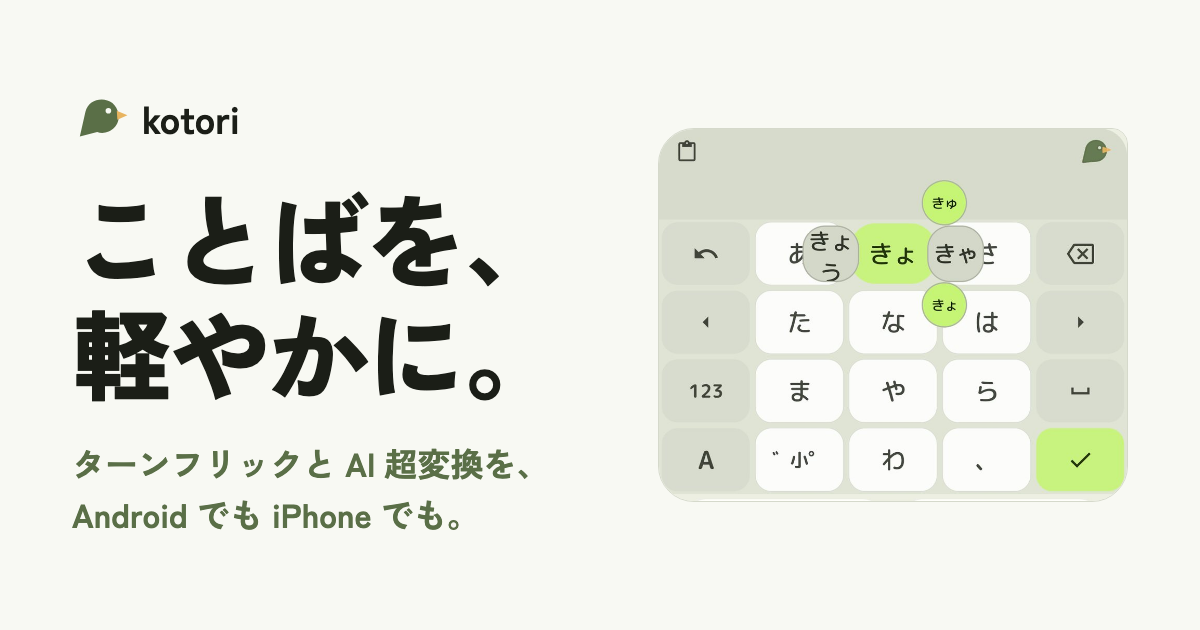
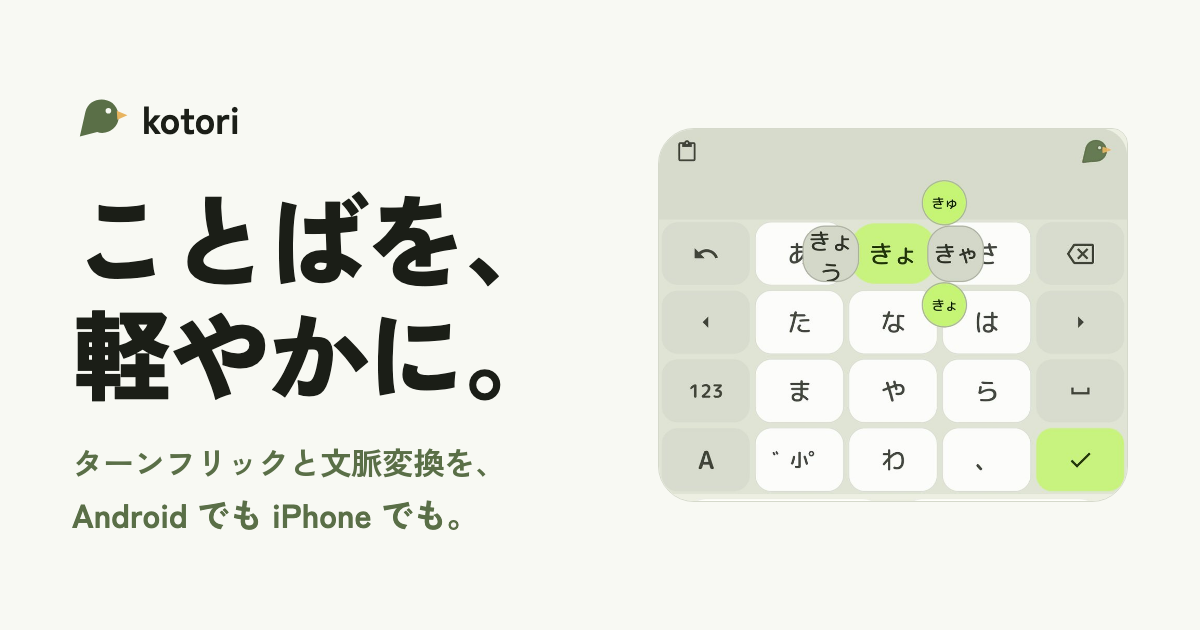
:pencil2: 「AI 超変換」を「文脈変換」に改める
端末内のモデルで候補を選び直す機能の名前を変えた（「超変換」を含む他社の登録商標に近いため）。
共有されたときの画像（og.png）も、その行を描き直した。

Changed region(s): [[0.0617, 0.6937, 0.4317, 0.7841]]

diff --git a/index.html b/index.html
@@ -3,10 +3,10 @@
 <head>
 <meta charset="utf-8">
 <meta name="viewport" content="width=device-width, initial-scale=1">
-<title>Kotori日本語入力 | ターンフリックと AI 超変換の日本語キーボード</title>
-<meta name="description" content="Kotori は、ターンフリックと AI 超変換をどちらも備えた日本語キーボードです。指を曲げれば濁音も拗音もひと筆で打て、変換は文を読んで字を選び直します。Android と iPhone の両方で使え、打ったことばは外へ送りません。">
+<title>Kotori日本語入力 | ターンフリックと文脈変換の日本語キーボード</title>
+<meta name="description" content="Kotori は、ターンフリックと文脈変換をどちらも備えた日本語キーボードです。指を曲げれば濁音も拗音もひと筆で打て、変換は文を読んで字を選び直します。Android と iPhone の両方で使え、打ったことばは外へ送りません。">
 <meta property="og:title" content="Kotori日本語入力">
-<meta property="og:description" content="ターンフリックと AI 超変換を、Android でも iPhone でも。">
+<meta property="og:description" content="ターンフリックと文脈変換を、Android でも iPhone でも。">
 <meta property="og:type" content="website">
 <meta property="og:url" content="https://kotorime.github.io/kotori-website/">
 <meta property="og:site_name" content="Kotori日本語入力">
@@ -39,7 +39,7 @@
 	</a>
 	<nav aria-label="ページ内">
 		<a href="#flick">ターンフリック</a>
-		<a href="#ai">AI 超変換</a>
+		<a href="#ai">文脈変換</a>
 		<a href="#privacy">プライバシー</a>
 		<a href="#get">ダウンロード</a>
 	</nav>
@@ -50,7 +50,7 @@
 <section class="hero">
 	<div class="hero-copy">
 		<h1>ことばを、<br>軽やかに。</h1>
-		<p class="claim"><span>ターンフリックと</span> <span>AI 超変換を、</span><br><span>Android でも</span> <span>iPhone でも。</span></p>
+		<p class="claim"><span>ターンフリックと</span> <span>文脈変換を、</span><br><span>Android でも</span> <span>iPhone でも。</span></p>
 		<p class="lead">指を曲げれば、濁音も拗音も、「きょう」までひと筆で打てます。変換は、文を読んで字を選び直します。どちらも端末の中で動き、打ったことばを外へ送りません。</p>
 		<p class="actions">
 			<a class="button" href="#get">ダウンロード</a>
@@ -64,7 +64,7 @@
 			<img class="is-on" src="assets/turn-2.jpg" width="900" height="717" alt="左へすべらせて「き」を選んだところ。右側に「きゅ」「きゃ」「きょ」、左下に「ぎ」が出ている">
 			<img class="is-on" src="assets/turn-3.jpg" width="900" height="717" alt="右下へ戻して「きょ」を選んだところ。左に「きょう」が出ている">
 			<img class="is-on" src="assets/turn-4.jpg" width="900" height="717" alt="もう一度左へ戻して「きょう」を選んだところ。キーに「きょう」と表示されている">
-			<img class="is-on" src="assets/turn-5.jpg" width="900" height="717" alt="続けて「とにかえる」と打ったところ。候補の先頭に、AI 超変換の印が付いた「京都に帰る」があり、続いて「京都に変える」が並んでいる">
+			<img class="is-on" src="assets/turn-5.jpg" width="900" height="717" alt="続けて「とにかえる」と打ったところ。候補の先頭に、文脈変換の印が付いた「京都に帰る」があり、続いて「京都に変える」が並んでいる">
 			<span class="player-finger is-up" aria-hidden="true"></span>
 		</div>
 		<ol class="player-steps">
@@ -74,7 +74,7 @@
 			<li><button type="button" data-step="3"><b>きょう</b>左へ戻す</button></li>
 			<li><button type="button" data-step="4" aria-current="step"><b>京都に帰る</b>続きを打つと</button></li>
 		</ol>
-		<figcaption id="player-caption">Android 版の実際の画面です。「きょう」をひと筆で打ち、続けて「とにかえる」と打つと、AI 超変換が「京都に帰る」を選びます。辞書だけの変換では「京都に変える」が先に出ます。</figcaption>
+		<figcaption id="player-caption">Android 版の実際の画面です。「きょう」をひと筆で打ち、続けて「とにかえる」と打つと、文脈変換が「京都に帰る」を選びます。辞書だけの変換では「京都に変える」が先に出ます。</figcaption>
 	</figure>
 </section>
 
@@ -115,14 +115,14 @@
 
 <section class="feature feature-flip" id="ai">
 	<div class="feature-text">
-		<p class="eyebrow">AI 超変換</p>
+		<p class="eyebrow">文脈変換</p>
 		<h2><span>文を読んで、</span><span>字を選び直す。</span></h2>
 		<p>辞書だけの変換は、となり合うことばのつながりやすさで字を選びます。そのため「くすりがきく」は、よく使われる「聞く」が先に出ます。</p>
-		<p>AI 超変換は、文をまるごと読める小さな言語モデルで、候補を選び直します。薬なら「効く」、本なら「厚い」。同じ読みの字を、文に合わせて選びます。</p>
+		<p>文脈変換は、文をまるごと読める小さな言語モデルで、候補を選び直します。薬なら「効く」、本なら「厚い」。同じ読みの字を、文に合わせて選びます。</p>
 		<table class="cases">
-			<caption>辞書だけの変換と、AI 超変換のいちばん上の候補</caption>
+			<caption>辞書だけの変換と、文脈変換のいちばん上の候補</caption>
 			<thead>
-				<tr><th scope="col">辞書だけ</th><th scope="col">AI 超変換</th></tr>
+				<tr><th scope="col">辞書だけ</th><th scope="col">文脈変換</th></tr>
 			</thead>
 			<tbody>
 				<tr><td><del>暑い</del>本を読む</td><td><ins>厚い</ins>本を読む</td></tr>
@@ -140,14 +140,14 @@
 	</div>
 	<figure class="shot compare">
 		<div class="compare-row">
-			<p>AI 超変換オフ</p>
+			<p>文脈変換オフ</p>
 			<img src="assets/ai-off.jpg" width="900" height="173" loading="lazy" alt="「くすりがきく」の候補。先頭から「薬が聞く」「薬が聴く」「薬が効く」の順に並んでいる">
 		</div>
 		<div class="compare-row is-on">
-			<p>AI 超変換オン</p>
-			<img src="assets/ai-on.jpg" width="900" height="173" loading="lazy" alt="「くすりがきく」の候補。先頭に AI 超変換の印が付いた「薬が効く」があり、続いて「薬が聞く」「薬が聴く」が並んでいる">
+			<p>文脈変換オン</p>
+			<img src="assets/ai-on.jpg" width="900" height="173" loading="lazy" alt="「くすりがきく」の候補。先頭に文脈変換の印が付いた「薬が効く」があり、続いて「薬が聞く」「薬が聴く」が並んでいる">
 		</div>
-		<figcaption>「くすりがきく」と打ったときの、実際の候補です。印の付いた候補が、AI 超変換が選んだものです。</figcaption>
+		<figcaption>「くすりがきく」と打ったときの、実際の候補です。印の付いた候補が、文脈変換が選んだものです。</figcaption>
 	</figure>
 </section>
 
@@ -224,11 +224,11 @@
 	<div class="facts">
 		<div>
 			<h3>iOS 版</h3>
-			<p>TestFlight でテスト中です。iOS 17 以降の iPhone と iPad で動きます。ターンフリックも AI 超変換も使えます。</p>
+			<p>TestFlight でテスト中です。iOS 17 以降の iPhone と iPad で動きます。ターンフリックも文脈変換も使えます。</p>
 		</div>
 		<div>
 			<h3>Android 版</h3>
-			<p>公開の準備をしています。Android 12 以降で動きます。ターンフリックも AI 超変換も使えます。</p>
+			<p>公開の準備をしています。Android 12 以降で動きます。ターンフリックも文脈変換も使えます。</p>
 		</div>
 	</div>
 	<p class="plain-note">どちらも無料です。公開の前に試していただける方を募っています。<a href="mailto:support@yuuki14202028.com?subject=Kotori%20%E3%81%AE%E3%83%86%E3%82%B9%E3%83%88%E3%81%AB%E5%8F%82%E5%8A%A0%E3%81%97%E3%81%9F%E3%81%84">メール</a>で、お使いの OS を添えてお知らせください。そのほかのお問い合わせも <a href="mailto:support@yuuki14202028.com">support@yuuki14202028.com</a> まで。</p>

diff --git a/styles.css b/styles.css
@@ -222,7 +222,7 @@ h2 span { display: inline-block; }
 	background: var(--surface);
 }
 
-/* AI 超変換。辞書だけの結果と並べる */
+/* 文脈変換。辞書だけの結果と並べる */
 .cases { width: 100%; margin-top: 1.75rem; border-collapse: collapse; font-size: var(--step--1); line-height: 1.6; }
 .cases caption { position: absolute; width: 1px; height: 1px; overflow: hidden; clip-path: inset(50%); white-space: nowrap; }
 .cases th { padding: 0 0 0.5rem; font-weight: 500; text-align: left; color: var(--ink-soft); }

diff --git a/README.md b/README.md
@@ -14,7 +14,7 @@ python3 -m http.server 8765   # http://localhost:8765/
 |---|---|
 | `index.html` | ページ本体。文面はここに直接書いてある。冒頭の図は、実際の画面（`assets/turn-1.jpg`〜`turn-5.jpg`）を段階ごとに送るもので、指の位置と送る間隔は末尾のスクリプトにある |
 | `styles.css` | 色・文字・レイアウト。色と形はアプリ（Android 版の `ui/Theme.kt`、`ui/Expressive.kt`）に合わせてある |
-| `assets/` | 小鳥のアイコンと、Android 版の実際の画面（下の「画面を撮り直すとき」）。`og.png` は共有されたときに出る画像（1200×630）、`apple-touch-icon.png` はホーム画面用のアイコン |
+| `assets/` | 小鳥のアイコンと、Android 版の実際の画面（下の「画面を撮り直すとき」）。`og.png` は共有されたときに出る画像（1200×630）。下の 1 行め（「ターンフリックと文脈変換を、」）は Zen Kaku Gothic New Bold の 31.3px・色 `#5A6F47` で、2026-11-11 に機能名を「文脈変換」へ改めたときに、この行だけ画像の上から描き直した（作るスクリプトは無い）、`apple-touch-icon.png` はホーム画面用のアイコン |
 
 ターンフリック（設定の名前。以前は拡張フリック）の説明は、Android 版の `keys/GyoKey.kt` の `createFlickTransitions`（どの向きへ曲げるとどの文字になるか）に合わせてある。挙動を変えたらここも直す。
 
@@ -24,12 +24,12 @@ python3 -m http.server 8765   # http://localhost:8765/
 
 | ファイル | 撮り方 |
 |---|---|
-| `turn-1.jpg`〜`turn-5.jpg` | ターンフリック（濁音・拗音・ターンフリック+）と AI 超変換をオンにして、「か」を押す → 左へ → 右下へ戻す → もう一度左へ（きょう）の各段階と、離して「とにかえる」と打ったあと。拗音に「う」を足す動きは `-Pkotori.flickContractedExtension=true` を付けたビルドにだけ入る |
-| `ai-off.jpg`、`ai-on.jpg` | 「くすりがきく」と打ったときの候補の列。AI 超変換のオフとオン |
+| `turn-1.jpg`〜`turn-5.jpg` | ターンフリック（濁音・拗音・ターンフリック+）と文脈変換をオンにして、「か」を押す → 左へ → 右下へ戻す → もう一度左へ（きょう）の各段階と、離して「とにかえる」と打ったあと。拗音に「う」を足す動きは `-Pkotori.flickContractedExtension=true` を付けたビルドにだけ入る |
+| `ai-off.jpg`、`ai-on.jpg` | 「くすりがきく」と打ったときの候補の列。文脈変換のオフとオン |
 | `themes.jpg` | 設定アプリの「きせかえ」の一覧 |
 | `background.jpg`、`background-picker.jpg` | 「きせかえ」の「キーボードに画像を使う」で Android 版の `docs/play-store/landscape.png` を選び、その背景で入力しているキーボードと、画像を選ぶ画面 |
 
-「AI 超変換」の節の表と件数は、kanakanji-rs の `zenz_corpus`（`--no-typing`）を、アプリに入っている辞書とモデルで動かした結果（辞書だけの 1 位と `fix_candidates` の 1 位）。辞書やモデルを替えたら測り直して、表の例がまだ成り立つかも確かめる。
+「文脈変換」の節の表と件数は、kanakanji-rs の `zenz_corpus`（`--no-typing`）を、アプリに入っている辞書とモデルで動かした結果（辞書だけの 1 位と `fix_candidates` の 1 位）。辞書やモデルを替えたら測り直して、表の例がまだ成り立つかも確かめる。
 
 ## スタイルを直すとき
 
